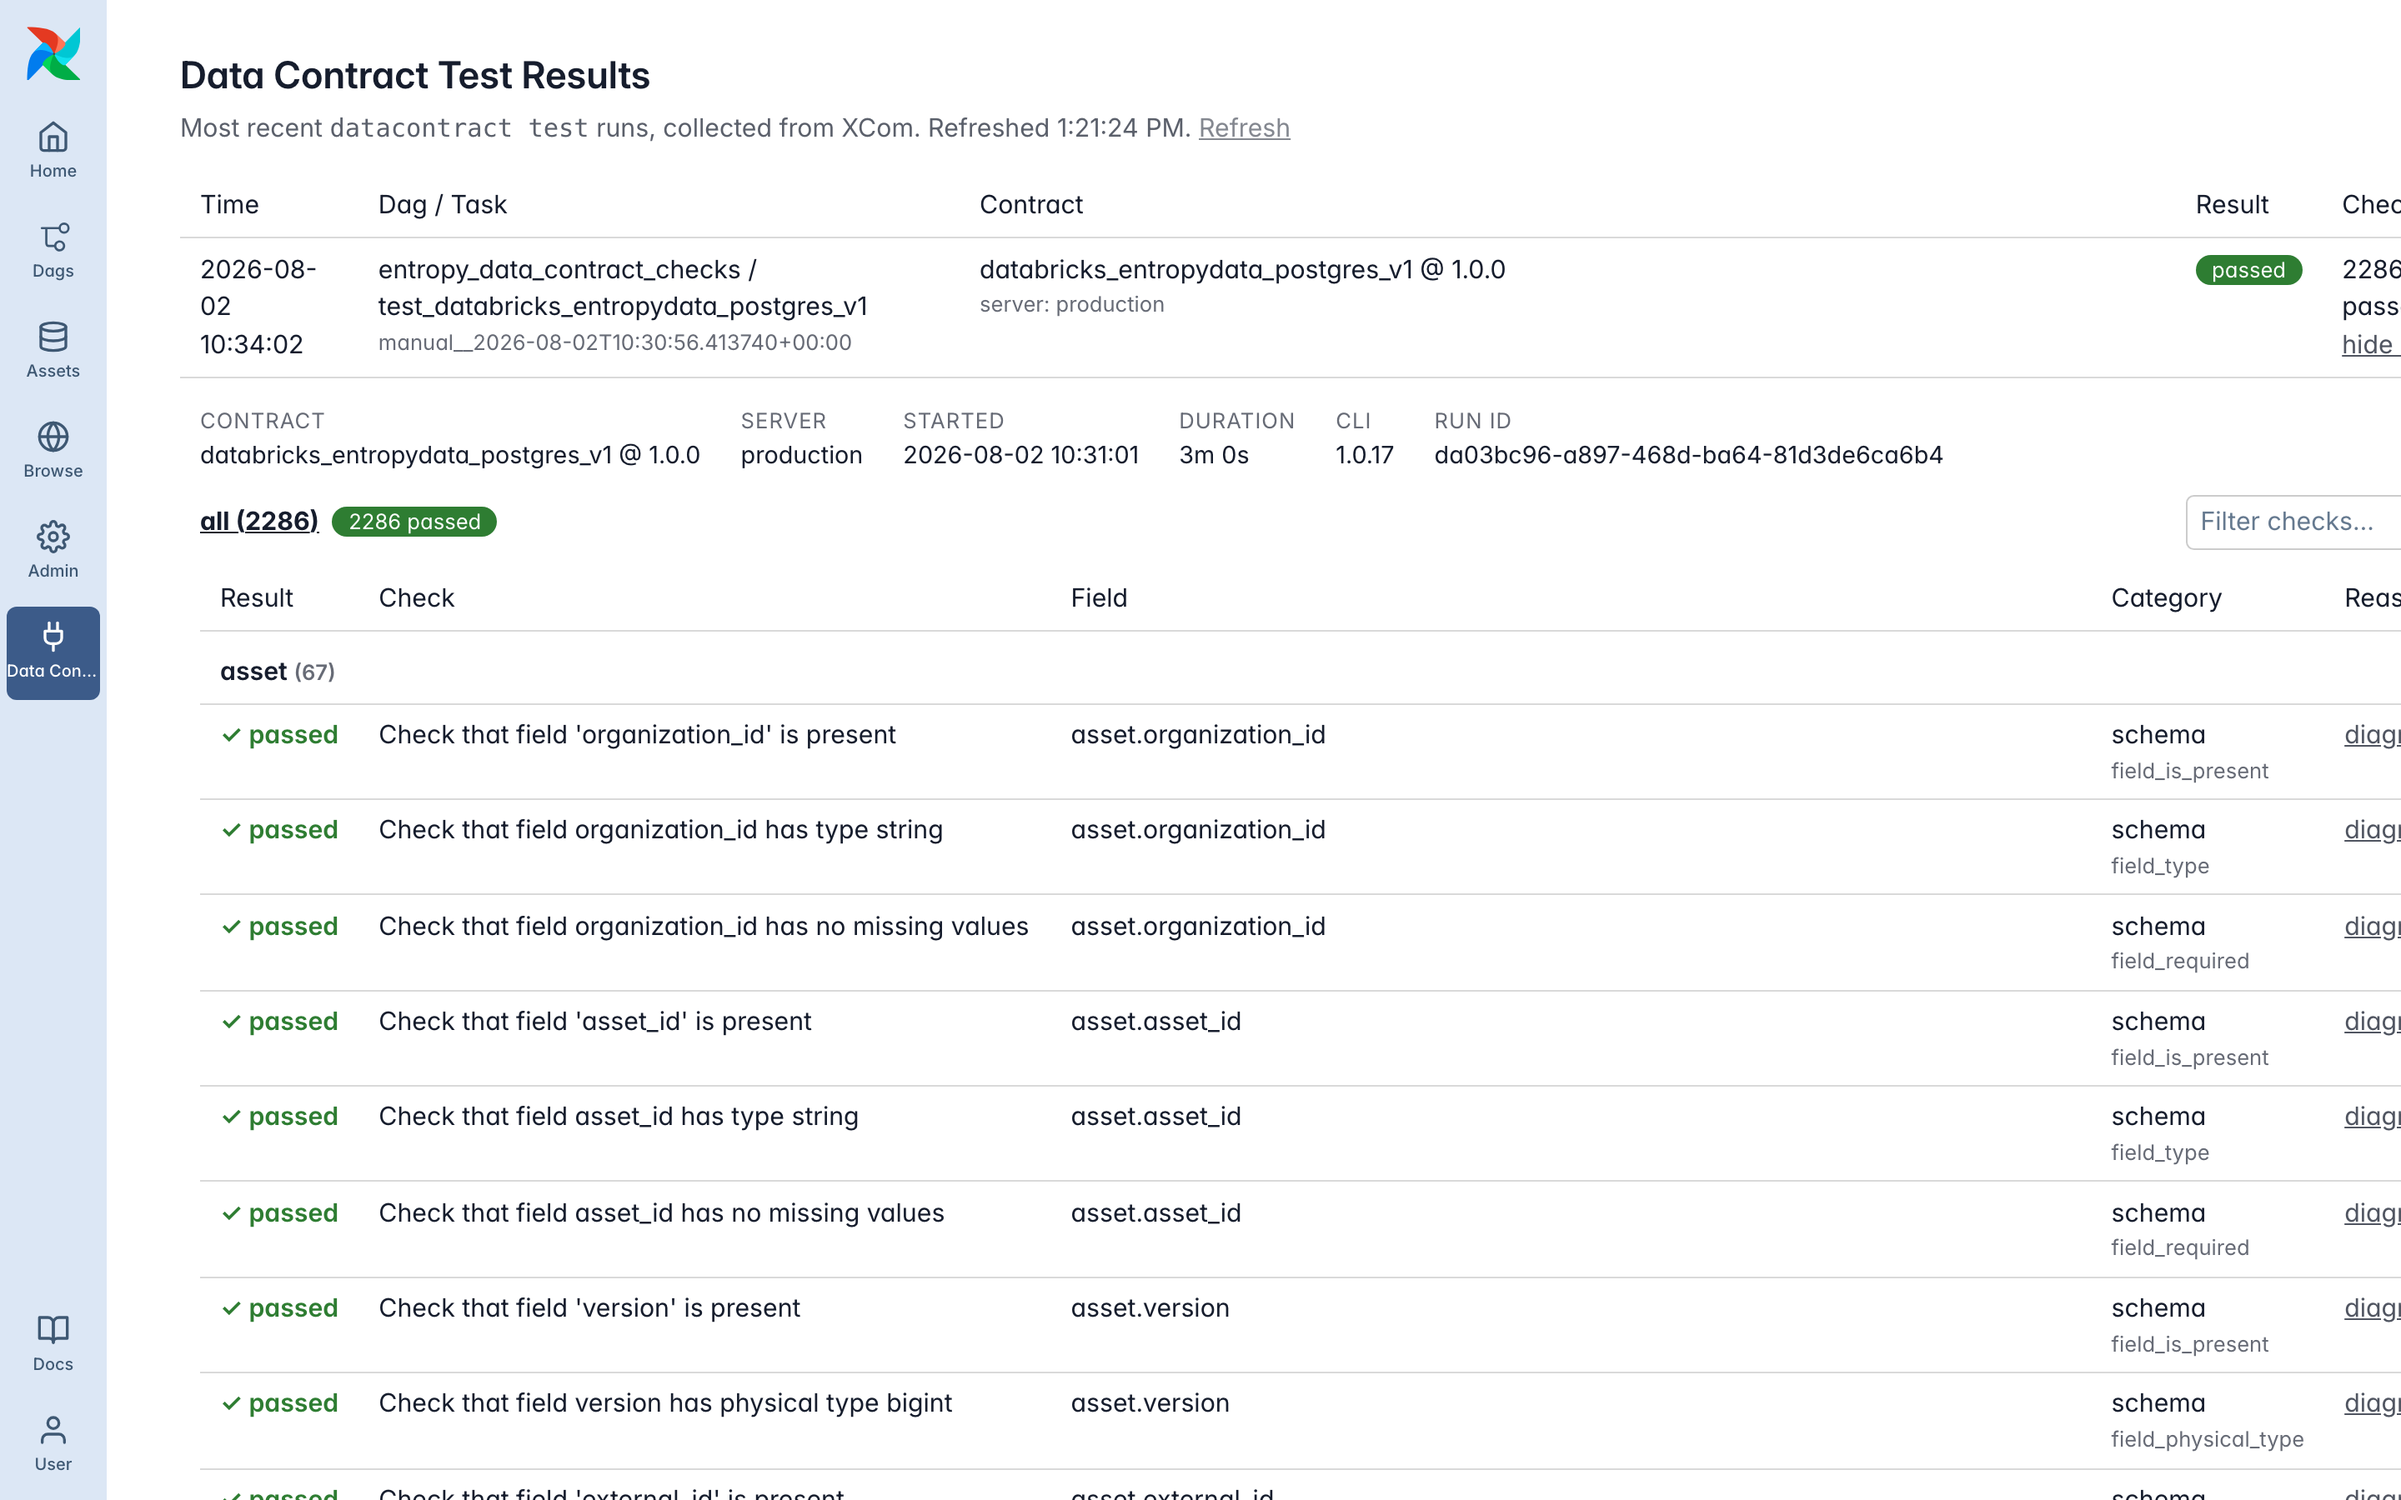
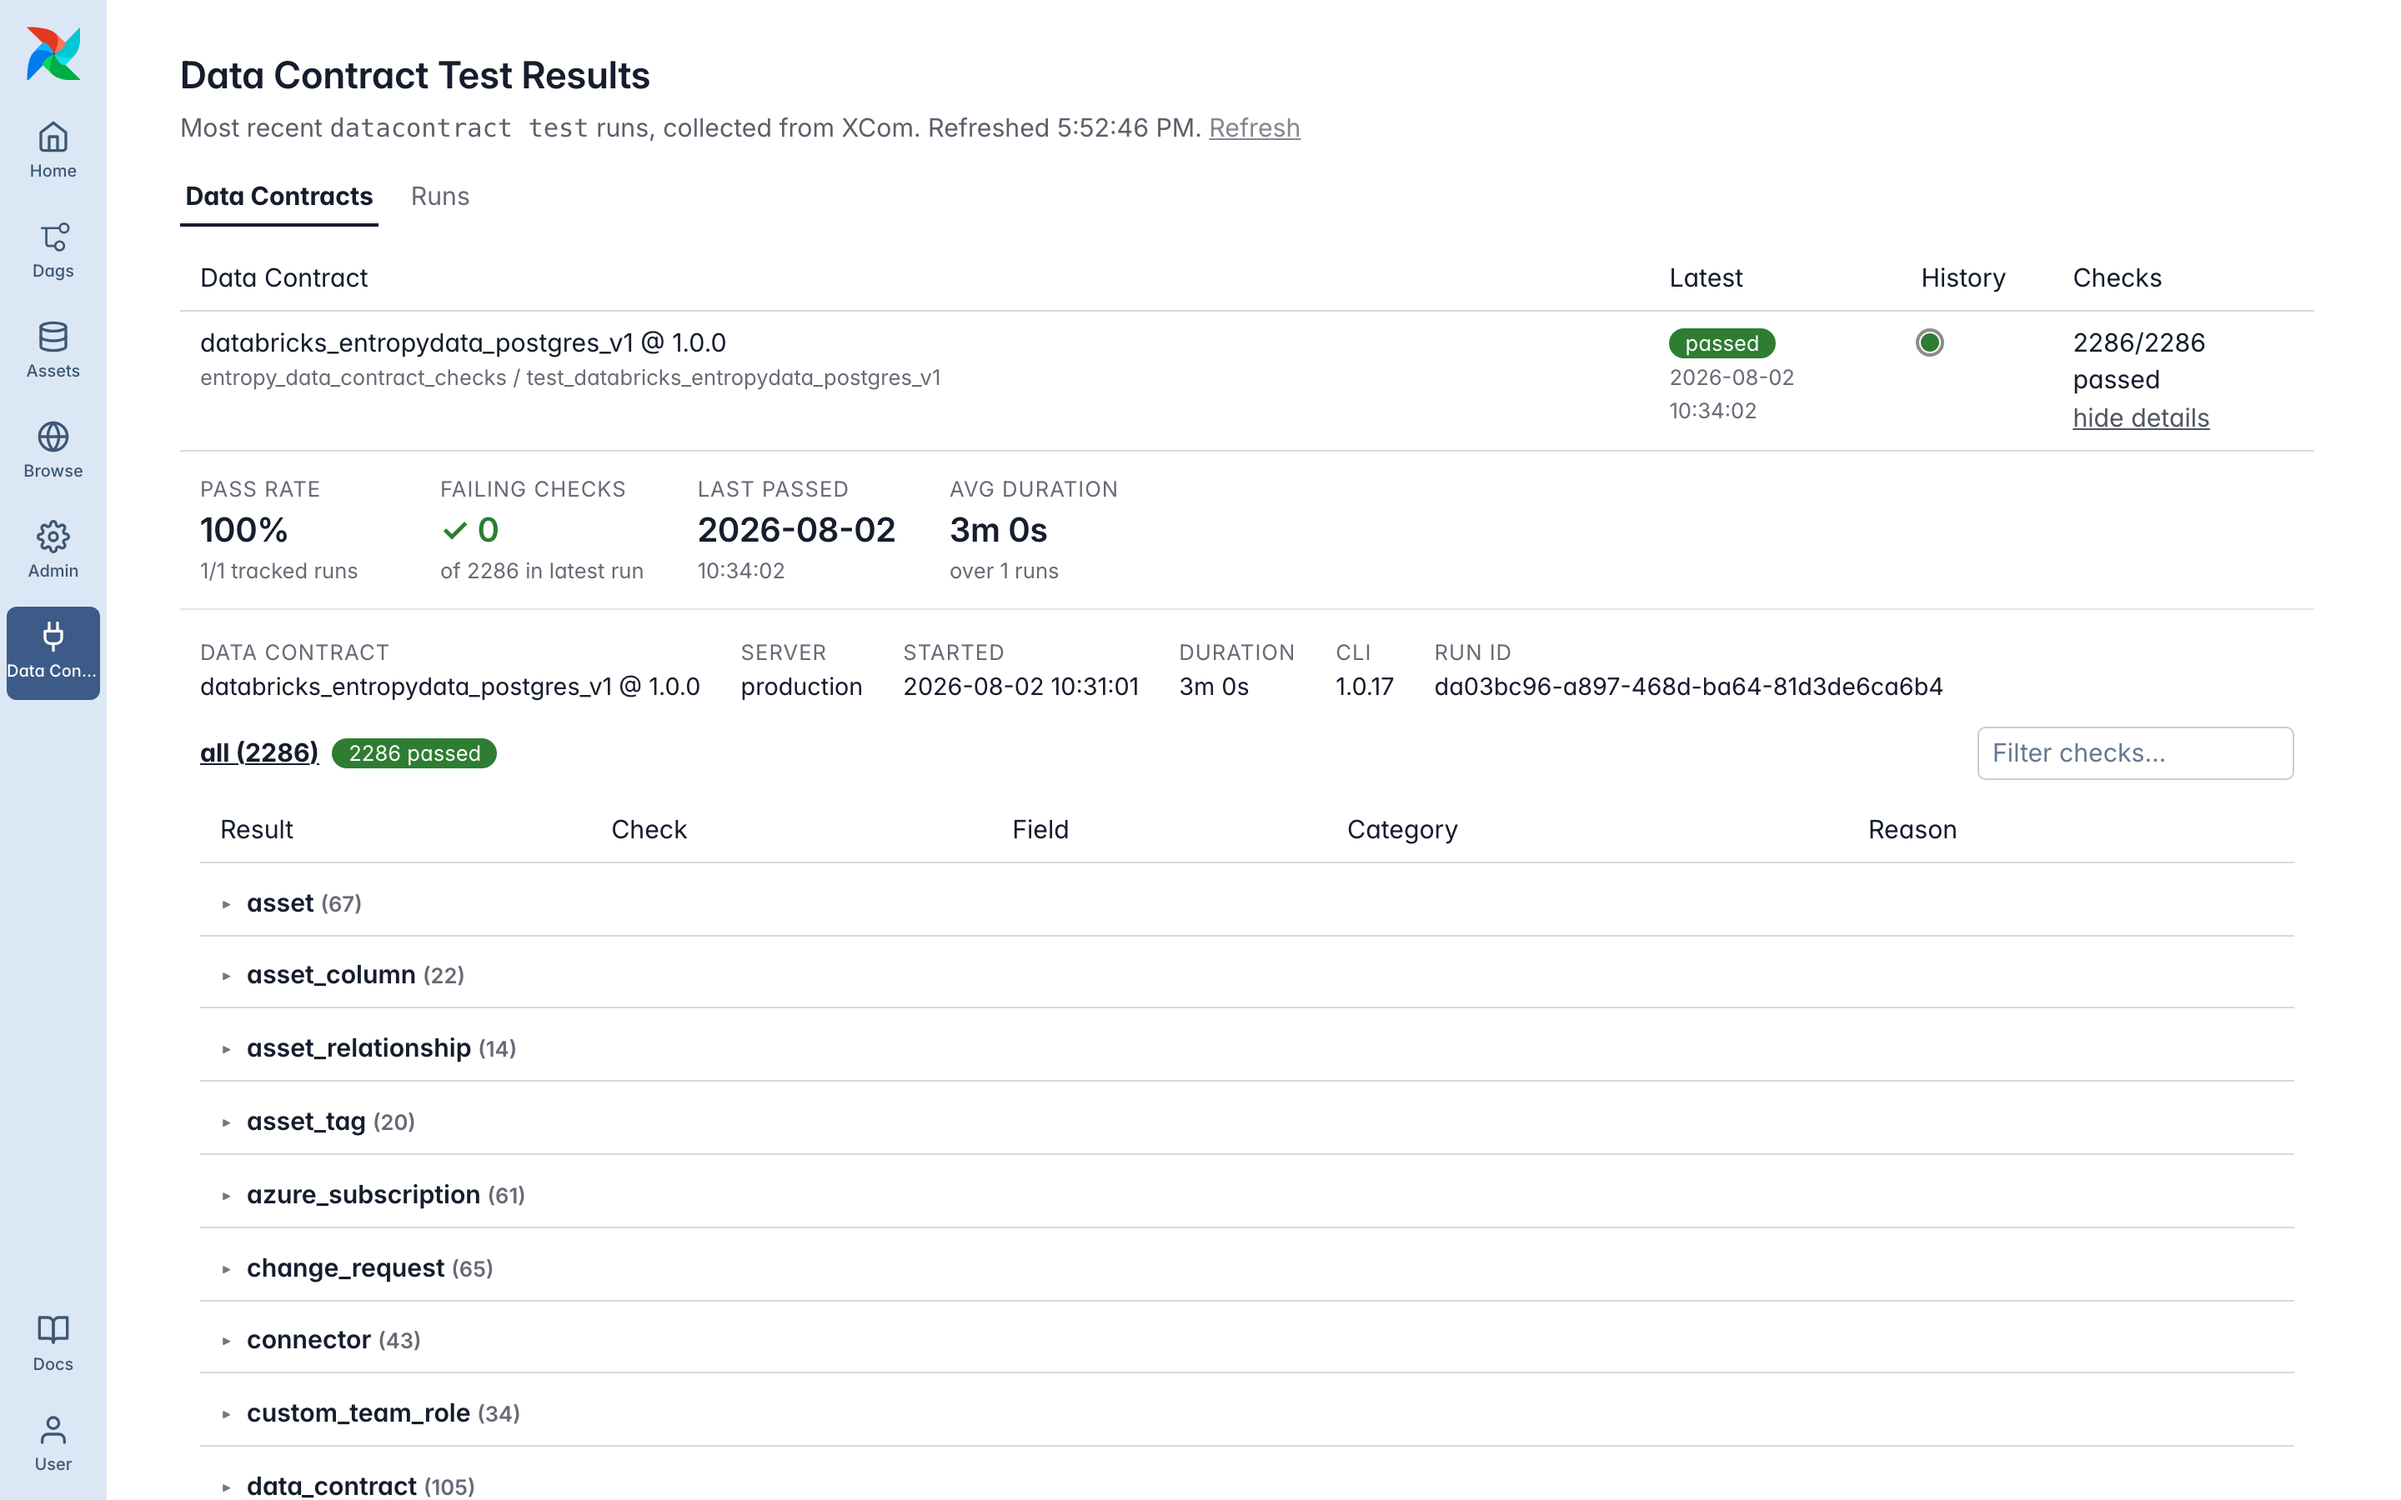
Update the Airflow guide for the contract status board
The results view description now covers the per-contract grouping with
run history, the stats row, failures-first filtering, and failure
streaks; screenshots retaken on provider 0.6.1.

diff --git a/docs/docs/scheduling/airflow.md b/docs/docs/scheduling/airflow.md
@@ -11,7 +11,7 @@ The **[Data Contract Provider for Apache Airflow](https://github.com/datacontrac
 - `DataContractTestOperator` tests a contract against real data and fails the task when the contract is violated, so bad data stops before it propagates downstream.
 - Per-check results are rendered in the task log (pass/fail, reason, model/field).
 - The full run report is pushed to XCom in the test-results API model, so downstream tasks can branch on the outcome.
-- On Airflow 3, a "Data Contract Results" view in the UI shows recent test runs across all DAGs, with filters, per-check details, and diagnostics.
+- On Airflow 3, a "Data Contract Results" view in the UI shows the state of all tested contracts, with run history, per-contract stats, and per-check details.
 - A "Test Results" button on the task instance links to the published results, e.g. in Entropy Data.
 
 ## Installation
@@ -148,13 +148,13 @@ The operator itself fails the task when the run result is `failed` or `error` (a
 
 ## Results in the Airflow UI
 
-On Airflow 3.1+, the provider adds a **Data Contract Results** entry to the navigation. It renders the most recent test runs across all DAGs, collected from XCom:
+On Airflow 3.1+, the provider adds a **Data Contract Results** entry to the navigation: a status board with one row per data contract, showing the latest result, a clickable run-history strip, and the check summary (a Runs tab keeps the raw run log):
 
-![Data Contract Results view in the Airflow UI, listing recent test runs with result badges and check counts](/img/airflow-results.png)
+![Data Contract Results view in the Airflow UI, one row per data contract with result badge, run history, and check counts](/img/airflow-results.png)
 
-Each run expands into a detail view with the contract id and version, server, duration, result counts as clickable filters, a text filter, checks grouped by model, per-check diagnostics and failed samples, and the run logs:
+Each contract expands into stats (pass rate over the tracked runs, failing checks, last passed, average duration) and the run detail: result counts as clickable filters, a text filter, checks grouped by model, per-check diagnostics and failed samples, and the run logs. Runs with problems open filtered to the not-passed checks, and each failure is annotated as new in this run or failing for several runs:
 
-![Expanded test run in the Data Contract Results view, showing run metadata and the per-check results grouped by model](/img/airflow-results-details.png)
+![Expanded data contract in the Data Contract Results view, showing per-contract stats, run metadata, and the per-check results grouped by model](/img/airflow-results-details.png)
 
 With `results_web_url` set, the task instance additionally shows a "Test Results" button that deep-links to the published results, e.g. in Entropy Data.
 
